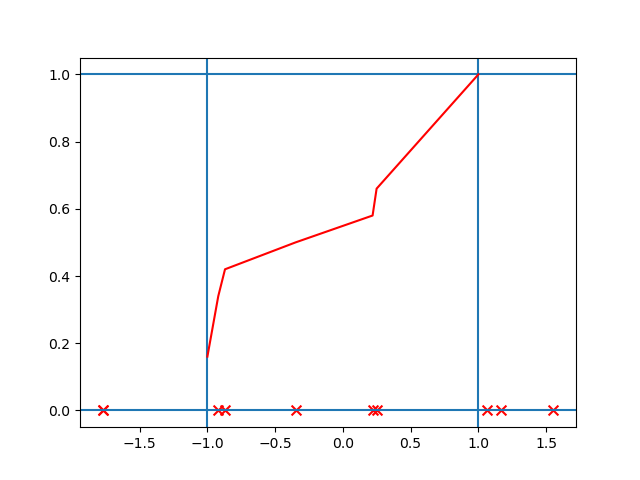
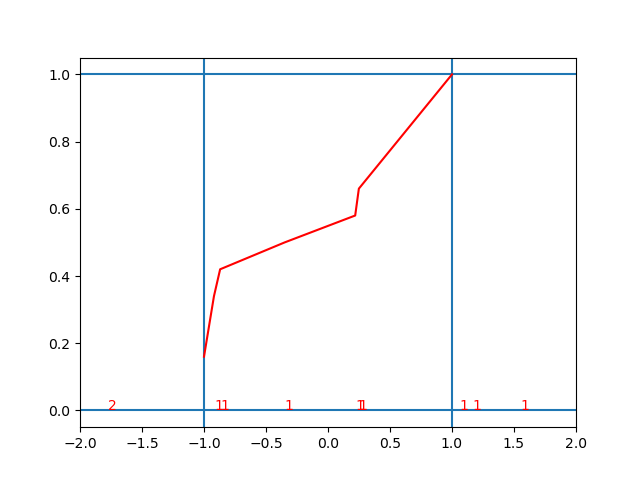
right tail of boxcar rank histogram should have discontinuity.

diff --git a/pyPESE/distributions/boxcar_rank_histogram.py b/pyPESE/distributions/boxcar_rank_histogram.py
@@ -451,10 +451,13 @@ if __name__ == '__main__':
 
     # Plot out CDF!
     plt.plot( brh_pts, brh_cdf, '-r', zorder=100)
-    plt.scatter( samples, samples * 0, marker='x', s=50, c='red')
+    for i, loc in enumerate(uniq_data):
+        print( i,loc, uniq_cnts[i])
+        plt.text( loc, 0, str(uniq_cnts[i]), color='red')
+    
     plt.axvline( left_bound )
     plt.axvline( right_bound )
     plt.axhline( 0 )
     plt.axhline( 1 )
-    # plt.ylim([0,1])
+    plt.xlim([-2,2])
     plt.savefig('tmp.png')
